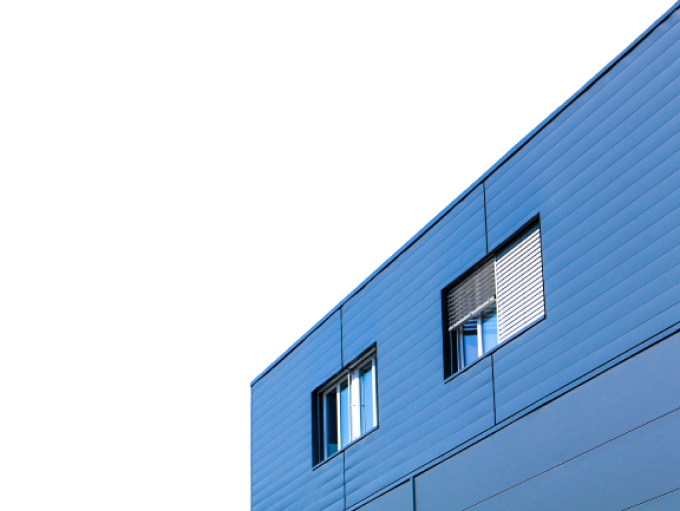
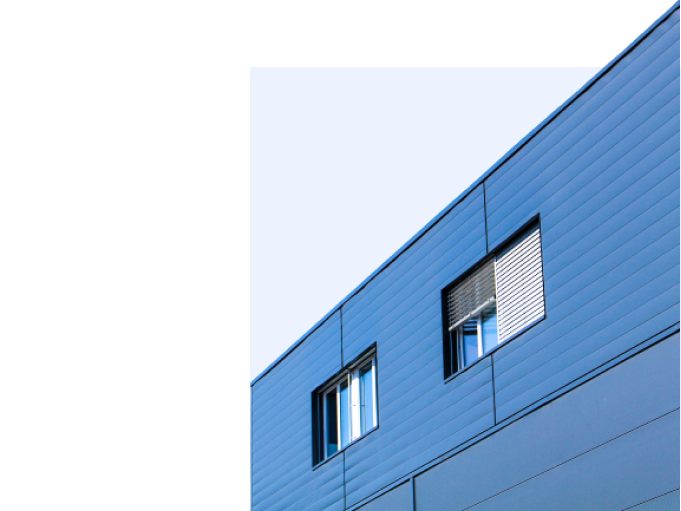
Blue vertical line issue fixed

diff --git a/css/style.css b/css/style.css
@@ -89,7 +89,7 @@ input:focus-visible {
 }
 
 .header__decoration-rectangle--outer-big {
-    width: calc((100vw - 1142px) / 2);
+    width: calc((100vw - 1159px) / 2);
     height: 783px;
     background-color: rgb(66, 127, 246, .1);
     position: absolute;
@@ -194,15 +194,6 @@ input:focus-visible {
     max-width: 463px;
 }
 
-.header__decoration-rectangle--inner-small {
-    width: 79%;
-    background-color: rgb(66, 127, 246, .1);
-    grid-column: 3/-1;
-    margin: 62px 0 156px;
-    margin-left: auto;
-    z-index: 0;
-}
-
 .header__img-wrapper {
     grid-column: 2/-1;
     max-width: 100%;
@@ -229,6 +220,7 @@ input:focus-visible {
     max-width: 1005px;
     padding: 34px 46px;
     background-color: #fff;
+    box-shadow: 3px 7px 20px 2px rgb(177 179 182 / 10%);
     z-index: 5;
     position: relative;
     top: -19px;

diff --git a/index.html b/index.html
@@ -65,8 +65,6 @@
 
                 </div>
 
-                <div class="header__decoration-rectangle--inner-small"></div>
-
                 <div class="header__img-wrapper"></div>
 
             </div>
